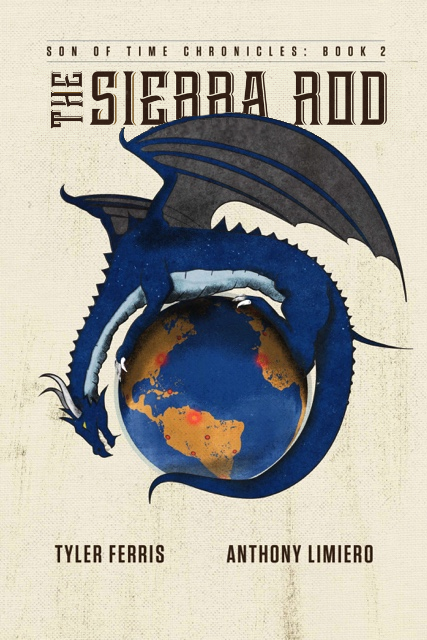
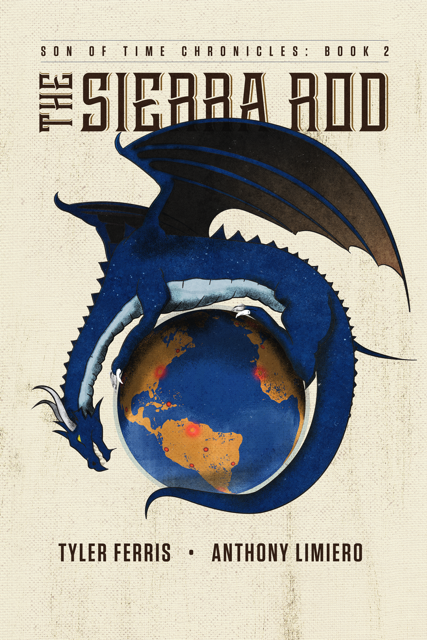
Changed Sierra Rod page
Uploaded official cover and rendering for The Sierra Rod. Also added some extra images to the images folder and backed up a wordpress theme for the shop

diff --git a/backupwordpresstheme.css b/backupwordpresstheme.css
@@ -1,0 +1,111 @@
+/*
+Theme Name: Store eCommerce
+Description: Store eCommerce is responsive, SEO friendly, multipurpose and fully customizable WordPerss theme for eCommerce and Blog. it is perfect theme to display business informations and sell products online. it is fully compatible with WooCommerce plugin and have all the WooCommerce options like shop icon, cart icon, my account icon, gallery zoom, gallery light box, gallery slider, shop page layout, single product page layout, product images effects, products per column etc. it is also fully compatible with WooCommerce Quick View plugin with hover effects. Additional Theme Features : One Click Demo Import, Typography Options, Social Profile, Blog Options, Front Page Posts Slider, Sidebar Menu, Top Main Menu, Footer Menu, Footer Widgets, Footer Copyright Section, Sticky Main Menu, Page Preloader, Custom Logo, Full Width Layout, Left Sidebar Layout, Right Sidebar Layout, Contact Form 7 ready, Elementor Page Builder ready, Translation ready etc. it can be use for many type of websites such as blog, lifestyle, photography, gallery, travel, event, startups, agency and firm, architecture, medical, corporate businesses, sport, one page, landing page, restaurant and similar websites.
+Version: 1.0.0
+Author: DiThemes
+Author URI: https://dithemes.com/
+License: GNU General Public License v2 or later
+License URI: http://www.gnu.org/licenses/gpl-2.0.html
+Tags: two-columns, left-sidebar, right-sidebar, grid-layout, flexible-header, custom-background, custom-colors, custom-header, custom-menu, editor-style, custom-logo, featured-images, footer-widgets, full-width-template, microformats, post-formats, sticky-post, theme-options, threaded-comments, translation-ready, blog, photography, e-commerce
+Text Domain: store-ecommerce
+Template: di-blog
+*/
+
+
+/* Additional Woo CSS */
+
+.woocommerce.woocommerce-page.archive ul.products li.product {
+    border: 1px solid #E9E9E9;
+}
+
+.woocommerce.woocommerce-page.archive ul.products li.product div.star-rating {
+    display: none;
+}
+
+.woocommerce.woocommerce-page.archive ul.products li.product span.price {
+    text-align: center;
+    padding: 5px 0;
+}
+
+.woocommerce.woocommerce-page.archive ul.products li.product h2.woocommerce-loop-product__title {
+    text-align: center;
+}
+
+.woocommerce.woocommerce-page.archive ul.products li.product .button.add_to_cart_button,
+.woocommerce.woocommerce-page.archive ul.products li.product .button.product_type_external,
+.woocommerce.woocommerce-page.archive ul.products li.product .button.product_type_grouped {
+    margin: 0 auto;
+    display: table;
+}
+
+.woocommerce.woocommerce-page.archive ul.products li.product .added_to_cart {
+    margin: 0 auto;
+    display: table;
+}
+
+.woocommerce.woocommerce-page.archive ul.products li.product span.onsale {
+    -webkit-transition: visibility .5s, opacity .5s;
+    transition: visibility .5s, opacity .5s;
+}
+
+.woocommerce.woocommerce-page.archive ul.products li.product:hover span.onsale {
+    visibility: hidden;
+    opacity: 0;
+}
+
+/* Additional Woo CSS END */
+
+/* Plugin Compatibility CSS */
+
+/* YITH WooCommerce Quick View Compatibility */
+
+.woocommerce.woocommerce-page.archive ul.products li.product .button.yith-wcqv-button {
+    -webkit-transition: visibility .5s, opacity .5s;
+    transition: visibility .5s, opacity .5s;
+    visibility: hidden;
+    opacity: 0;
+    position: relative;
+    display: table;
+    margin: 0 auto;
+    position: relative;
+    top: -251px;
+    padding: 8px 8px;
+    font-size: 13px;
+    letter-spacing: 1px;
+    text-transform: uppercase;
+    font-weight: normal;
+}
+
+.woocommerce.woocommerce-page.archive ul.products li.product:hover .button.yith-wcqv-button {
+    visibility: visible;
+    opacity: 1;
+}
+
+/* YITH WooCommerce Quick View Compatibility END */
+
+/* Plugin Compatibility CSS END */
+
+
+/* Additional Menu CSS */
+
+.footer-menu {
+    list-style-type: none;
+    padding: 0;
+    margin: 0 auto;
+    display: table;
+}
+.navbar-nav.footer-menu li {
+    display: inline-block;
+}
+
+.footer-menu li {
+    padding: 12px;
+}
+
+.footer-menu li a {
+    text-transform: uppercase;
+    letter-spacing: 1px;
+    font-size: 14px;
+}
+
+

diff --git a/sierrarod.html b/sierrarod.html
@@ -66,7 +66,7 @@
 
     <!-- Parallax Section -->
     <div class="parallax-container">
-      <div class="parallax"><img src="images/spyke.jpg"></div>
+      <div class="parallax"><img src="images/backandfront.jpg"></div>
     </div>
 
     <div class="divider"></div>
